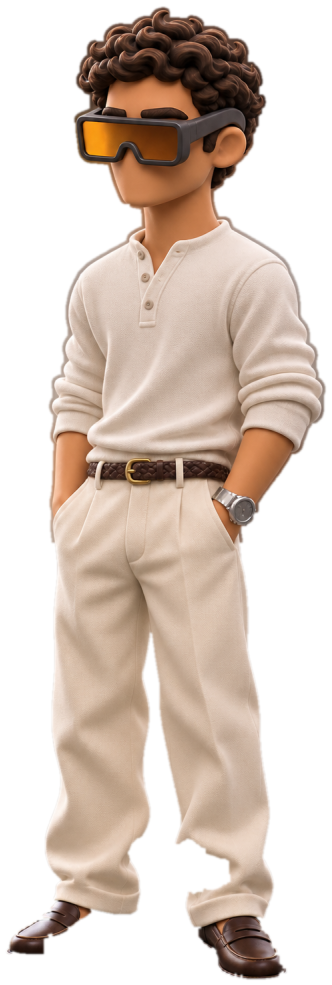
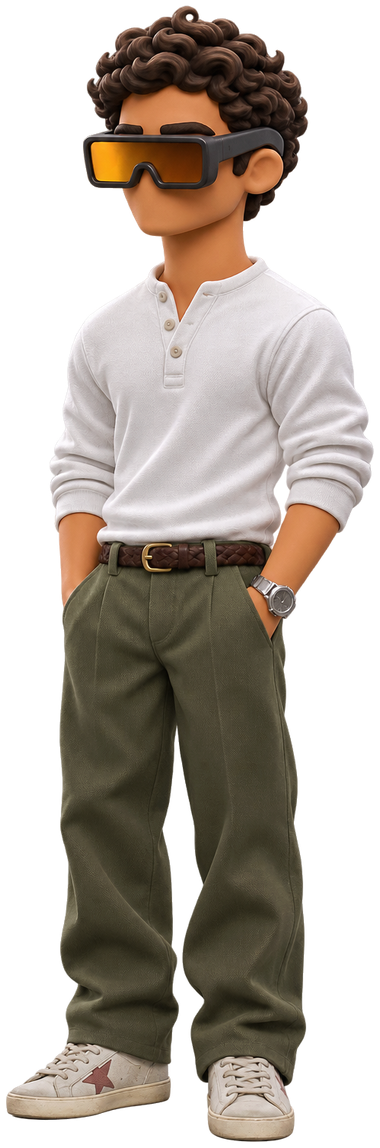
Rebalance Route layout, new hero figure, reticle cursor aligned with pointer

diff --git a/src/styles/global.css b/src/styles/global.css
@@ -388,11 +388,12 @@ h2.sec::before { content: '>'; font-family: var(--mono); font-weight: 500; color
 }
 
 /* Route: a world tour you can scrub, play or step through */
-.tour { display: grid; grid-template-columns: minmax(0, 1fr) minmax(0, 480px); gap: clamp(20px, 4vw, 56px); align-items: center; }
-.tour-globe .scene { height: clamp(300px, 36vw, 440px); }
-.tour-card-wrap { display: flex; flex-direction: column; gap: clamp(36px, 4vw, 52px); justify-content: center; }
+.tour { --gh: clamp(280px, 30vw, 380px); display: grid; grid-template-columns: minmax(0, 1fr) minmax(0, 420px); gap: clamp(20px, 4vw, 56px); align-items: center; }
+.tour-globe .scene { height: var(--gh); }
+/* Text column is as tall as the globe: the stop text sits on the globe's midline and the controls under it, so nothing jumps between stops. */
+.tour-card-wrap { display: flex; flex-direction: column; gap: 28px; justify-content: space-between; min-height: var(--gh); }
 .stops { display: grid; }
-.stop-card { grid-area: 1 / 1; display: flex; flex-direction: column; justify-content: flex-end; gap: 6px; }
+.stop-card { grid-area: 1 / 1; display: flex; flex-direction: column; justify-content: flex-start; align-self: center; gap: 6px; }
 .stop-card:not([hidden]) { animation: cardIn 0.55s var(--ease) both; }
 .stop-card[hidden] { display: flex; visibility: hidden; }
 .stop-kind { display: inline-flex; align-items: center; gap: 8px; color: var(--ink-2); }
@@ -434,7 +435,11 @@ h2.sec::before { content: '>'; font-family: var(--mono); font-weight: 500; color
 @keyframes cardIn { from { opacity: 0; transform: translateX(22px); } to { opacity: 1; transform: none; } }
 @media (max-width: 899px) {
   .tour { grid-template-columns: 1fr; }
-  .tour-card-wrap { min-height: 0; }
+  .tour-card-wrap { min-height: 0; gap: 20px; }
+  .stop-card { align-self: start; }
+  .stop-card[hidden] { display: none; }
+  .tour-globe { order: -1; }
+  .tour-globe .scene { height: clamp(240px, 70vw, 340px); }
   .node { flex-basis: 128px; }
   .track-in { min-width: calc(var(--n) * 128px); }
 }
@@ -716,6 +721,9 @@ h2.sec::after { content: ''; flex: 1; height: 1px; margin-left: 18px; background
 /* ===== Cursor: a system reticle with live coordinates ===== */
 .rt { position: fixed; z-index: 90; left: 0; top: 0; width: 34px; height: 34px; margin: -17px 0 0 -17px; pointer-events: none; opacity: 0; transition: opacity 0.25s, width 0.25s var(--ease), height 0.25s var(--ease), margin 0.25s var(--ease); will-change: transform; }
 .rt.on { opacity: 1; }
+/* The reticle is the pointer: hide the arrow while it is on, so the two never disagree. Text fields keep the I-beam. */
+.rt-active, .rt-active * { cursor: none !important; }
+.rt-active input, .rt-active textarea { cursor: text !important; }
 .rt::before { content: ''; position: absolute; inset: 0; border: 1.5px solid var(--teal); border-radius: 50%; border-right-color: transparent; border-left-color: transparent; animation: rtSpin 3.2s linear infinite; }
 .rt::after { content: ''; position: absolute; left: 50%; top: 50%; width: 4px; height: 4px; margin: -2px; border-radius: 50%; background: var(--teal); }
 .rt.hover { width: 54px; height: 54px; margin: -27px 0 0 -27px; }
